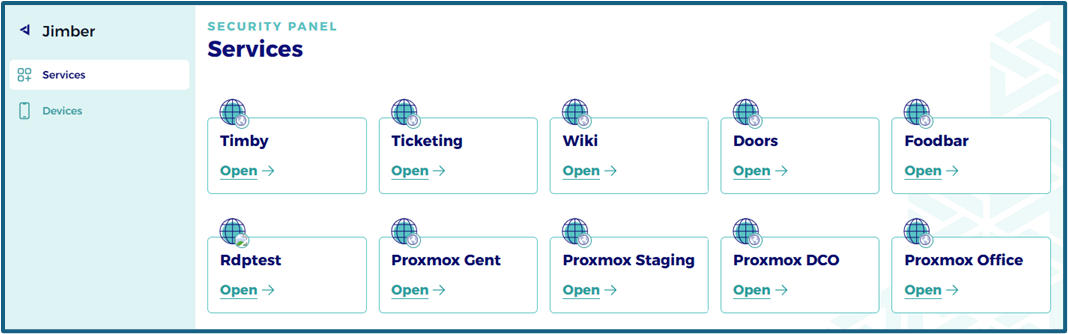
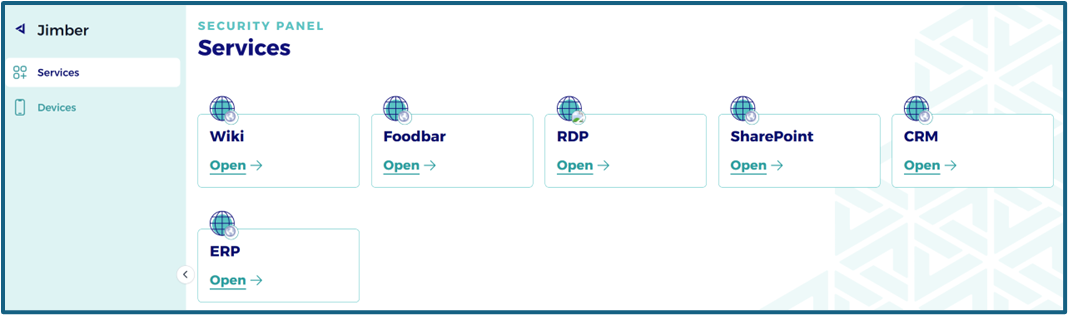
9th of April 2025, 12.33

Changed region(s): [[0.0, 0.0, 0.9888, 1.0], [0.0, 0.3143, 0.0927, 0.3714], [0.0, 0.0571, 0.0927, 0.1143]]

diff --git a/rules/security_panel/security_panel.md b/rules/security_panel/security_panel.md
@@ -1,16 +1,16 @@
 # SECURITY PANEL
 
-## **Under construction...**
+<!-- ## **Under construction...** -->
 
-<!-- In the Jimber Tray you have the option `Security Panel`:
+In the Jimber Tray you have the option `Security Panel`:
 
 ![jimber_tray.png](jimber_tray.png ':size=300')
 
-Choosing this option, you will get the following screen: 
+Choosing this option, you can get the following screen depending on the installed services: 
 
 ![secure_panel.png](secure_panel.png ':size=700')
 
-The first option...
+In the overview of the services you can obviously start the selected service.
 
 The second option displays a screen where you can add your own devices:
 
@@ -34,4 +34,7 @@ Finally, you get a new QR-code and the final instructions to add your device:
 
 ![add_user_device_2.png](add_user_device_2.png ':size=500')
 
-Clicking on `I have configured my device`adds your device to the list.  -->
+Clicking on `I have configured my device`adds your device to the list. 
+
+>[!Warning]
+>Only **mobile** devices can be added in this way. Other devices like laptops, PCs and servers will appear in the list after installing the SASE software.   

diff --git a/devices/userdevices/userdevices.md b/devices/userdevices/userdevices.md
@@ -16,7 +16,7 @@ Devices will appear in the "User Devices" list as soon as:
 Open the page [Jimber SASE downloads](https://signal.jimber.io/downloads) and download the client that matches your operating system:
 
 <!-- ![windows-popup1.png](/start.png ':size=800x') -->
-![downloads.png](/downloads.png ':size=600')
+![downloads.png](/downloads.png ':size=800')
 
 
 ### Platforms 
@@ -155,6 +155,8 @@ If you're yet to have a login, please reach out to your network administrator to
 
 <!-- tabs:end -->
 
+---
+---
 ## The Jimber tray icon ![jimber_icon.png](/jimber_icon.png ':size=50')
 
 After signing in, clicking on the icon will show you this tray:
